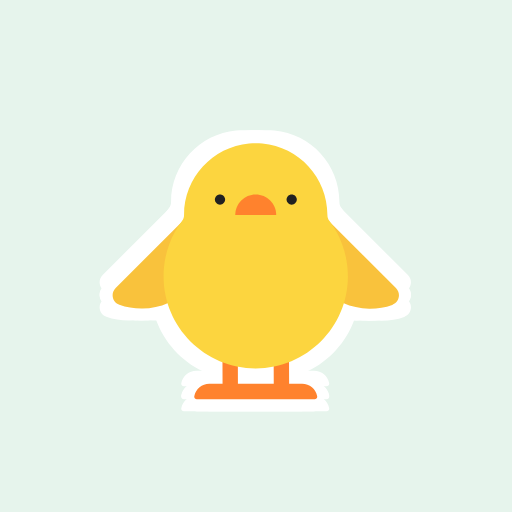
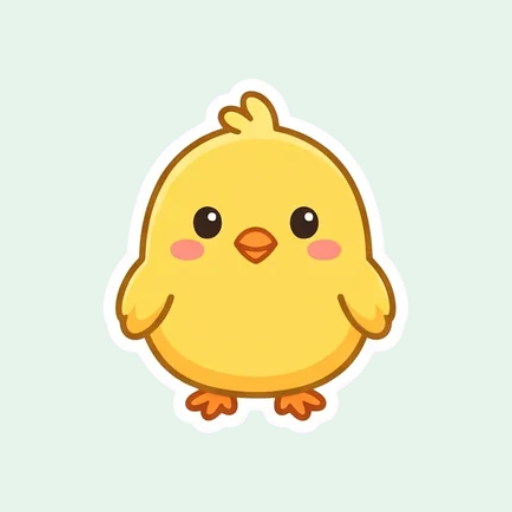
Hình vẽ riêng cho Chip, đồ của Chip và 4 sticker còn lại
- Chip mới (và Chip ngủ ở màn nghỉ), nơ, mũ lưỡi trai, kính, mũ cao, vương
  miện, hộp quà, ngọn lửa: public/img/art/ui/. imgUrl() trả về các hình này
  theo tên, nên chỗ gọi không đổi.
- Canh lại vị trí 5 món đồ trên Chip mới; khoét tròng kính cho trong suốt.
- 4 sticker cuối (ferris wheel, sparkles, rocket, rainbow): cả 31 sticker
  giờ cùng một phong cách.
- Icon app sinh lại từ Chip mới; favicon dùng icon-192.png.
- Xóa hình emoji cũ của Chip, đồ của Chip, quà, lửa và sticker.
- Cập nhật test, README, CLAUDE.md.

Changed region(s): [[0.1875, 0.1562, 0.8125, 0.8438]]

diff --git a/src/style.css b/src/style.css
@@ -335,10 +335,9 @@ select:focus-visible {
   border-radius: 6px;
 }
 
+/* the rest screen: Chip asleep is its own picture */
 .sleepy {
-  filter: saturate(0.7) drop-shadow(4px 0 0 #fff) drop-shadow(-4px 0 0 #fff) drop-shadow(0 4px 0 #fff)
-    drop-shadow(0 -4px 0 #fff);
-  transform: rotate(-8deg);
+  filter: drop-shadow(0 6px 0 rgb(43 58 85 / 0.1));
 }
 
 /* ---------- home ---------- */
@@ -1601,12 +1600,14 @@ td:not(:first-child) {
   pointer-events: none;
 }
 
-/* positions are fractions of Chip's width (its drawing is 32 units wide, eyes at y 10.5, head top at y 5) */
-.look-ribbon { width: 32%; left: 50%; top: 3%; transform: rotate(20deg); }
-.look-cap { width: 54%; left: 23%; top: -13%; }
-.look-glasses { width: 48%; left: 26%; top: 9%; }
-.look-hat { width: 50%; left: 25%; top: -27%; }
-.look-crown { width: 46%; left: 27%; top: -20%; }
+/* Positions are fractions of Chip's box. Chip's picture fills x 9-90% and y 2-96% of it, the eyes
+   sit at about y 42%. Each thing is a square picture with its drawing in the middle (a cap fills
+   y 16-83% of its square), so `top` is where the square starts, not where the drawing does. */
+.look-ribbon { width: 34%; left: 52%; top: -6%; transform: rotate(18deg); }
+.look-cap { width: 66%; left: 17%; top: -26%; }
+.look-glasses { width: 58%; left: 21%; top: 13%; }
+.look-hat { width: 56%; left: 22%; top: -31%; }
+.look-crown { width: 50%; left: 25%; top: -20%; }
 
 /* home: days in a row, next to the stars */
 .counters {

diff --git a/src/lib/content.ts b/src/lib/content.ts
@@ -50,7 +50,10 @@ export const slug = (s: string) => s.toLowerCase().replace(/[^a-z0-9]+/g, '-');
 
 const base = import.meta.env?.BASE_URL ?? './';
 
-export const imgUrl = (name: string) => `${base}img/${name}.svg`;
+/** Chip, the things Chip wears, the gift box and the flame are drawn in the app's own style. */
+const UI_ART = new Set(['mascot', 'mascot-sleepy', 'look-ribbon', 'look-cap', 'look-glasses', 'look-hat', 'look-crown', 'gift', 'fire']);
+
+export const imgUrl = (name: string) => (UI_ART.has(name) ? `${base}img/art/ui/${name}.webp` : `${base}img/${name}.svg`);
 
 export const topics: Topic[] = data.topics;
 

diff --git a/src/ui.ts b/src/ui.ts
@@ -103,7 +103,7 @@ export function chip(cls = '') {
   return h(
     'span',
     { class: `chip ${cls}`, role: 'img', 'aria-label': 'Chip' },
-    h('img', { class: 'chip-body', src: imgUrl('mascot'), alt: '', draggable: false }),
+    h('img', { class: 'chip-body', src: imgUrl(cls.includes('sleepy') ? 'mascot-sleepy' : 'mascot'), alt: '', draggable: false }),
     chipLook && h('img', { class: `chip-look look-${chipLook}`, src: imgUrl(`look-${chipLook}`), alt: '', draggable: false }),
   );
 }

diff --git a/src/lib/logic.test.ts b/src/lib/logic.test.ts
@@ -561,7 +561,7 @@ group('things Chip can wear', () => {
     expect([...needs].sort((a, b) => a - b)).toEqual(needs);
     expect(Math.max(...needs)).toBeLessThanOrEqual(stickers.length);
     for (const l of LOOKS) {
-      expect(fs.existsSync(path.join(process.cwd(), 'public/img', `look-${l.id}.svg`)), l.id).toBe(true);
+      expect(fs.existsSync(path.join(process.cwd(), "public/img/art/ui", `look-${l.id}.webp`)), l.id).toBe(true);
     }
   });
 });

diff --git a/index.html b/index.html
@@ -6,7 +6,7 @@
     <meta name="theme-color" content="#e6f4ec" />
     <meta name="apple-mobile-web-app-capable" content="yes" />
     <meta name="apple-mobile-web-app-title" content="Chip Chip" />
-    <link rel="icon" href="img/mascot.svg" type="image/svg+xml" />
+    <link rel="icon" href="icon-192.png" type="image/png" />
     <link rel="apple-touch-icon" href="icon-192.png" />
     <title>Chip Chip English</title>
   </head>

diff --git a/CLAUDE.md b/CLAUDE.md
@@ -131,13 +131,13 @@ Các file trong `screens/` import vòng lẫn nhau (home → topic → trò chơ
   - Whisper luôn viết "zee" thành "see" (không có từ "zee"), nên file "Z" không tự kiểm tra được; phiên âm của nó là `zˈiː`. "R is for rabbit." cũng còn bị nghe lệch.
 - **Hình phải tự nói lên nghĩa của từ.** Chủ repo đã báo "fog" có hình khó hiểu (vài vòng tròn xám), và AI đã xem lại toàn bộ hình bằng bảng hình theo chủ đề. Đã sửa: bỏ "fog" (không có hình sương mù nào rõ) và "lorry" (trùng nghĩa với "truck" trong cùng chủ đề); "seed" có hình cây con nên đổi thành "plant" với hình chậu cây; "hat" đổi từ hình mũ lưỡi trai sang hình mũ rộng vành (hình mũ lưỡi trai là món "cap" của Chip); "dad" đổi sang hình có râu vì trước đó giống hệt "brother". Khi thêm từ, hãy dựng bảng hình và xem: nếu không đoán được từ khi che chữ thì đổi hình hoặc bỏ từ.
 - **Hình vẽ riêng bằng Gemini** (cờ `art`, file `public/img/art/<id>.webp`, 320 px, khoảng 13 KB mỗi hình): chủ repo thấy nhiều hình Fluent Emoji khó phân biệt (mom, sister, brother, dad gần như một khuôn mặt; train / tram / subway / fast train; run / walk). Chủ repo có tài khoản Gemini và tự nguyện dán prompt, tải hình về; đây là ngoại lệ do chủ repo đề nghị đối với ràng buộc "AI làm 100%", không phải tiền lệ để giao việc tay khác.
-  - Đã thay trọn 10 chủ đề (288 hình): Gia đình & nghề, Xe cộ, Hành động, Cơ thể, Đồ ăn, Con vật, Rau củ quả, Thiên nhiên, Đồ chơi & nhà, Cảm xúc. Cảm xúc là cùng một bé trai với 12 nét mặt, để thứ duy nhất khác nhau là cảm xúc (chủ đề vẫn giữ `noShadow`). Sticker thưởng: 27/31 đã có hình vẽ riêng (`public/img/art/stickers/<id>.webp`, danh sách id trong `src/data/sticker-art.json`; `content.ts` dùng hình vẽ nếu id có trong danh sách, không thì dùng emoji). Còn 4 sticker (ferris wheel, sparkles, rocket, rainbow) và Chip cùng đồ của Chip có prompt sẵn. Id sticker không đổi, chỉ đổi hình. Màu sắc, Số, Hình khối giữ hình cũ vì là hình trừu tượng. Màu sắc, Số, Hình khối, Cảm xúc, Chữ cái giữ hình cũ.
+  - Đã thay trọn 10 chủ đề (288 hình): Gia đình & nghề, Xe cộ, Hành động, Cơ thể, Đồ ăn, Con vật, Rau củ quả, Thiên nhiên, Đồ chơi & nhà, Cảm xúc. Cảm xúc là cùng một bé trai với 12 nét mặt, để thứ duy nhất khác nhau là cảm xúc (chủ đề vẫn giữ `noShadow`). Cả 31 sticker thưởng có hình vẽ riêng (`public/img/art/stickers/<id>.webp`, danh sách id trong `src/data/sticker-art.json`); id sticker không đổi, chỉ đổi hình. Chip, Chip ngủ (màn nghỉ), 5 món đồ, hộp quà và ngọn lửa nằm trong `public/img/art/ui/`; `imgUrl()` trả về các hình này theo tên trong `UI_ART` (`content.ts`), nên chỗ gọi không đổi. Tròng kính của `look-glasses` đã được khoét trong suốt (bản Gemini vẽ tròng trắng đục, che mắt Chip). Icon app (`icon-192/512.png`) sinh lại từ Chip mới bằng `make-icons.mjs`. Không còn prompt nào chờ vẽ. Màu sắc, Số, Hình khối giữ hình cũ vì là hình trừu tượng. Màu sắc, Số, Hình khối, Cảm xúc, Chữ cái giữ hình cũ.
   - **Chỉ thay khi đủ cả chủ đề**: các hình đứng cạnh nhau trong một câu hỏi phải cùng phong cách (có test). Chữ cái dùng hình của từ minh họa, theo bộ mà từ đó đang dùng (`pictureOf` trong `content.ts`).
   - Quy trình: `node scripts/art-prompts.mjs` ghi `art-inbox/PROMPTS.md` (mỗi prompt một tấm lưới 3×3, mô tả riêng cho các từ dễ nhầm trong bảng `HINT`); chủ repo lưu hình vào `art-inbox/` (không vào git); ghi tên file và danh sách từ theo thứ tự đọc vào `art-inbox/sheets.json`; `node scripts/cut-all-art.mjs <python>` cắt bằng `scripts/cut-art.py` (cần pillow, numpy, scipy; đã cài trong `.venv-voice`) rồi thêm `"art": true` vào từ trong `words.json`. Sau đó AI phải **xem bảng hình đã cắt** trước khi đưa vào app.
   - `cut-art.py`: nền là vùng cùng màu nối với mép tấm hình, nên vật màu xanh vẫn an toàn bên trong viền trắng của nó. Những điều đã gặp: Gemini luôn đóng dấu ngôi sao mờ ở góc dưới phải và đôi khi để lại bóng mờ của hình mẫu (đều là xanh trên xanh, được coi là nền); ô được bảo để trống thì nó chép hình từ ảnh mẫu vào (cắt theo thứ tự đọc và bỏ phần thừa; có lần chép cả mảng nền xanh lên tấm nền hồng, phải tô che phần đó rồi mới cắt, xem `animals-5-fixed.png`); bóng mờ của ảnh mẫu đủ to để bị tính là một hình và làm lệch thứ tự, nên script chỉ nhận mảng nào có viền trắng; một hình bị vẽ thành hai mảnh rời ("desert": mặt trời tách khỏi đồi cát) cũng làm lệch thứ tự, khi đó ghi tấm ấy trong `sheets.json` dạng `{ "ids": [...], "join": 60 }` để gộp các mảnh cách nhau dưới 60 px; nền bị kẹt bên trong hình (giữa nan hoa, dưới cánh tay) không có viền trắng nên phải khoét theo màu. Chủ đề nhiều vật màu xanh (con vật, rau củ quả, thiên nhiên) dùng nền hồng cánh sen.
   - Hình Fluent cũ của các từ đã có hình vẽ riêng đã bị xóa khỏi `public/img` (231 file, theo yêu cầu dọn dẹp của chủ repo), và `copy-assets.mjs` bỏ qua từ có cờ `art`. Còn giữ: hình của các chủ đề chưa thay, sticker, Chip, và icon trò chơi trong `topic.ts` (eye, ear, mouth, drum, puzzle-piece). Muốn quay một từ về hình Fluent thì bỏ cờ `art` rồi chạy lại `copy-assets.mjs`. Ảnh nguồn Gemini trong `art-inbox/` cũng đã xóa sau khi cắt; muốn cắt lại thì phải vẽ lại.
   - Chưa đọc kỹ điều khoản của Gemini về dùng hình trong app phát hành rộng; với app cho con dùng thì không sao. README có ghi nguồn.
-- Hình còn lại (Màu sắc, ngôi sao của Số, sticker, Chip, icon trò chơi) lấy từ **Fluent Emoji Flat** (Microsoft, MIT). Người và tay chân dùng tông da **Medium-Light** (cờ `skin`).
+- Hình còn lại (Màu sắc, ngôi sao của Số, icon trò chơi) lấy từ **Fluent Emoji Flat** (Microsoft, MIT). Người và tay chân dùng tông da **Medium-Light** (cờ `skin`).
 - Viền trắng kiểu sticker cắt rời là dấu ấn thị giác chính. Nó được làm bằng nhiều lớp `drop-shadow` trắng trong CSS.
 - Giọng đọc tiếng Anh dùng file mp3 sinh sẵn bằng Piper (giọng `en_US-kristin-medium`, public domain) trong `public/voice/`. Câu nào chưa có file thì rơi về TTS của trình duyệt. Tiếng Việt vẫn dùng TTS trình duyệt. Thêm từ mới thì chạy lại `node scripts/gen-voice.mjs <python> <model.onnx>` (chỉ sinh câu còn thiếu; cần piper-tts, soundfile, scipy, faster-whisper). Từ 1-2 chữ được sinh qua câu "Say, X." rồi cắt bỏ chữ "Say", vì đọc riêng từ đơn thì mô hình nuốt âm (cat nghe như tack); `npm test` sẽ báo nếu thiếu file.
 - Cài Piper trên máy mới (miễn phí, đã làm được trên máy Windows có proxy công ty):
@@ -208,7 +208,7 @@ Các file trong `screens/` import vòng lẫn nhau (home → topic → trò chơ
 - **Chuỗi ngày học** (`P.streak`, `markDay`, `currentStreak` trong `progress.ts`): tăng 1 khi bé chơi xong trò đầu tiên trong ngày (gọi ở `resultScreen`). Hôm nay chưa chơi thì chuỗi vẫn hiện số của hôm qua; bỏ trọn một ngày thì về 0. Chỉ hiện ở màn hình chính, không có thông báo nhắc và không phạt khi đứt chuỗi.
 - **Sổ từ của bé** (`screens/wordbook.ts`, nút quyển sách cạnh nút album, kèm số từ đã gặp): mọi từ có `seen > 0`, xếp theo chủ đề; từ đã thuộc (hộp ≥ 3) có ngôi sao, từ chưa gặp là ô "?" giữ chỗ (như ô trống trong album), chủ đề chưa học chỉ là một dòng. Chạm thì đọc từ. Không có trò chơi hay điểm ở đây.
 - **Tranh của bé** (`screens/scene.ts`, nút khung tranh trong album sticker, chỉ hiện khi có ít nhất 1 sticker): chơi tự do, không điểm, không thưởng. Chạm sticker trong khay để dán vào chỗ ngẫu nhiên, hoặc kéo ra khỏi khay để dán đúng chỗ thả; kéo để di chuyển; thả ra ngoài tranh để gỡ (không có nút xóa hết, tránh bé lỡ tay); chạm sticker trên tranh thì đọc tên. 3 nền vẽ bằng CSS gradient (không thêm file). Lưu trong `P.scene` (tối đa `SCENE_MAX` = 30 miếng, tọa độ phần trăm) và `P.sceneBg`. Hàm `drag()` giữ con trỏ (`setPointerCapture`) ngay từ `pointerdown`: nếu chờ tới khi đã kéo quá ngưỡng thì chuột vẩy nhanh sẽ rời khỏi ô sticker nhỏ trước khi kịp bắt. Vị trí dùng thuộc tính `translate` chứ không dùng `transform`, vì các hiệu ứng `pop-in`, `wiggle` ghi đè `transform`. Hết giờ chơi thì màn này chuyển sang màn nghỉ ngay (không có màn kết quả để chờ).
-- **Đồ cho Chip** (`LOOKS` trong `progress.ts`): nơ 3 sticker, mũ lưỡi trai 7, kính 12, mũ cao 18, vương miện 25 (album có 31). Bé chọn ở đầu album sticker; chạm món đang mặc thì cởi ra. `P.look` lưu món đang mặc, `P.looksSeen` để biết khi nào hiện chấm "có món mới" trên nút album. Mọi chỗ vẽ Chip đều đi qua `chip()` trong `ui.ts` (màn chào, màn hình chính, kết quả, Chip nhảy lên, lưng thẻ Memory), nên món đồ hiện ở khắp nơi; đổi `P.look` thì phải gọi `setChipLook`. Vị trí từng món là phần trăm theo bề rộng Chip, nằm trong `style.css` (`.look-*`). Hình lấy từ Fluent Emoji (`public/img/look-*.svg`).
+- **Đồ cho Chip** (`LOOKS` trong `progress.ts`): nơ 3 sticker, mũ lưỡi trai 7, kính 12, mũ cao 18, vương miện 25 (album có 31). Bé chọn ở đầu album sticker; chạm món đang mặc thì cởi ra. `P.look` lưu món đang mặc, `P.looksSeen` để biết khi nào hiện chấm "có món mới" trên nút album. Mọi chỗ vẽ Chip đều đi qua `chip()` trong `ui.ts` (màn chào, màn hình chính, kết quả, Chip nhảy lên, lưng thẻ Memory), nên món đồ hiện ở khắp nơi; đổi `P.look` thì phải gọi `setChipLook`. Vị trí từng món là phần trăm theo khung của Chip, nằm trong `style.css` (`.look-*`), đã canh lại cho hình Chip mới (11/2026); mỗi món là hình vuông có hình vẽ nằm giữa, nên `top` là mép trên của ô vuông chứ không phải của hình vẽ. Đổi hình Chip hay hình món đồ thì phải chụp lại từng món và canh lại. Hình nằm ở `public/img/art/ui/look-*.webp`.
 
 **Bàn phím** (`screens/keys.ts`)
 - Phím số 1–9 bấm phần tử thứ N của nhóm đầu tiên có mặt trên màn, theo thứ tự trong `NUMBERED`: `.option`, `.spot`, `.flip`, `.activity`, `.numpad button`, `.topic`, `.tray-item`. Trò mới có lưới đáp án thì dùng lại một trong các class này, hoặc thêm class của nó vào `NUMBERED` và vào phần CSS `.keys …` để có số gợi ý.

diff --git a/README.md b/README.md
@@ -112,8 +112,8 @@ Toàn bộ tiến độ chỉ lưu trên máy (localStorage). App không có tà
 ## Âm thanh và hình ảnh đến từ đâu
 
 - **Hình khối:** 12 hình của chủ đề Hình khối được vẽ riêng cho app (file `public/img/shape-*.svg`).
-- **Hình của từ vựng:** 288 hình của mười chủ đề (Con vật, Rau củ quả, Xe cộ, Cơ thể, Gia đình & nghề, Đồ ăn, Đồ chơi & nhà, Thiên nhiên, Cảm xúc, Hành động) được vẽ bằng Gemini (Google) theo mô tả của app, cùng một phong cách sticker, để các từ gần nghĩa trông khác nhau rõ (mẹ, chị, anh, bố không còn chung một khuôn mặt; train, tram, subway mỗi cái một kiểu; run và walk khác dáng). File nằm trong `public/img/art/*.webp`. Chữ cái dùng hình của từ minh họa trong bộ này. 27 trong 31 sticker thưởng cũng được vẽ theo cách này (`public/img/art/stickers/`).
-- **Hình còn lại** (trái tim màu của chủ đề Màu sắc, ngôi sao đếm số, 4 sticker thưởng chưa vẽ lại, bạn gà Chip và đồ của Chip, icon các trò chơi): [Fluent Emoji](https://github.com/microsoft/fluentui-emoji) của Microsoft, phong cách *Flat*, giấy phép **MIT**. File SVG nằm trong `public/img`. Kiểu viền trắng như sticker cắt rời được làm bằng CSS. Toàn bộ hình của app nặng khoảng 5 MB.
+- **Hình của từ vựng:** 288 hình của mười chủ đề (Con vật, Rau củ quả, Xe cộ, Cơ thể, Gia đình & nghề, Đồ ăn, Đồ chơi & nhà, Thiên nhiên, Cảm xúc, Hành động) được vẽ bằng Gemini (Google) theo mô tả của app, cùng một phong cách sticker, để các từ gần nghĩa trông khác nhau rõ (mẹ, chị, anh, bố không còn chung một khuôn mặt; train, tram, subway mỗi cái một kiểu; run và walk khác dáng). File nằm trong `public/img/art/*.webp`. Chữ cái dùng hình của từ minh họa trong bộ này. Cả 31 sticker thưởng (`public/img/art/stickers/`), bạn gà Chip, đồ của Chip, hộp quà và ngọn lửa chuỗi ngày (`public/img/art/ui/`) cũng được vẽ theo cách này.
+- **Hình còn lại** (trái tim màu của chủ đề Màu sắc, ngôi sao đếm số, icon các trò chơi): [Fluent Emoji](https://github.com/microsoft/fluentui-emoji) của Microsoft, phong cách *Flat*, giấy phép **MIT**. File SVG nằm trong `public/img`. Kiểu viền trắng như sticker cắt rời được làm bằng CSS. Toàn bộ hình của app nặng khoảng 5 MB.
 - **Giọng đọc:** giọng tiếng Anh là file mp3 sinh sẵn bằng Piper (giọng `en_US-kristin-medium`, public domain), nên giống nhau trên mọi máy và chạy offline. Câu nào chưa có file thì dùng giọng có sẵn trên máy (Web Speech API). Tiếng Việt vẫn dùng giọng của máy. Cách này không tốn tiền.
 - **Nhận giọng nói:** SpeechRecognition của trình duyệt. Có trên Chrome (Android, máy tính) và Safari mới. Trình duyệt nào không hỗ trợ thì bài Say it tự ẩn đi.
 - **Hiệu ứng âm thanh** (đúng, sai, sao, sticker) và giai điệu bài Sing along: tạo bằng Web Audio, không cần file. Giai điệu là "Twinkle, twinkle" (dân gian, thuộc phạm vi công cộng).
